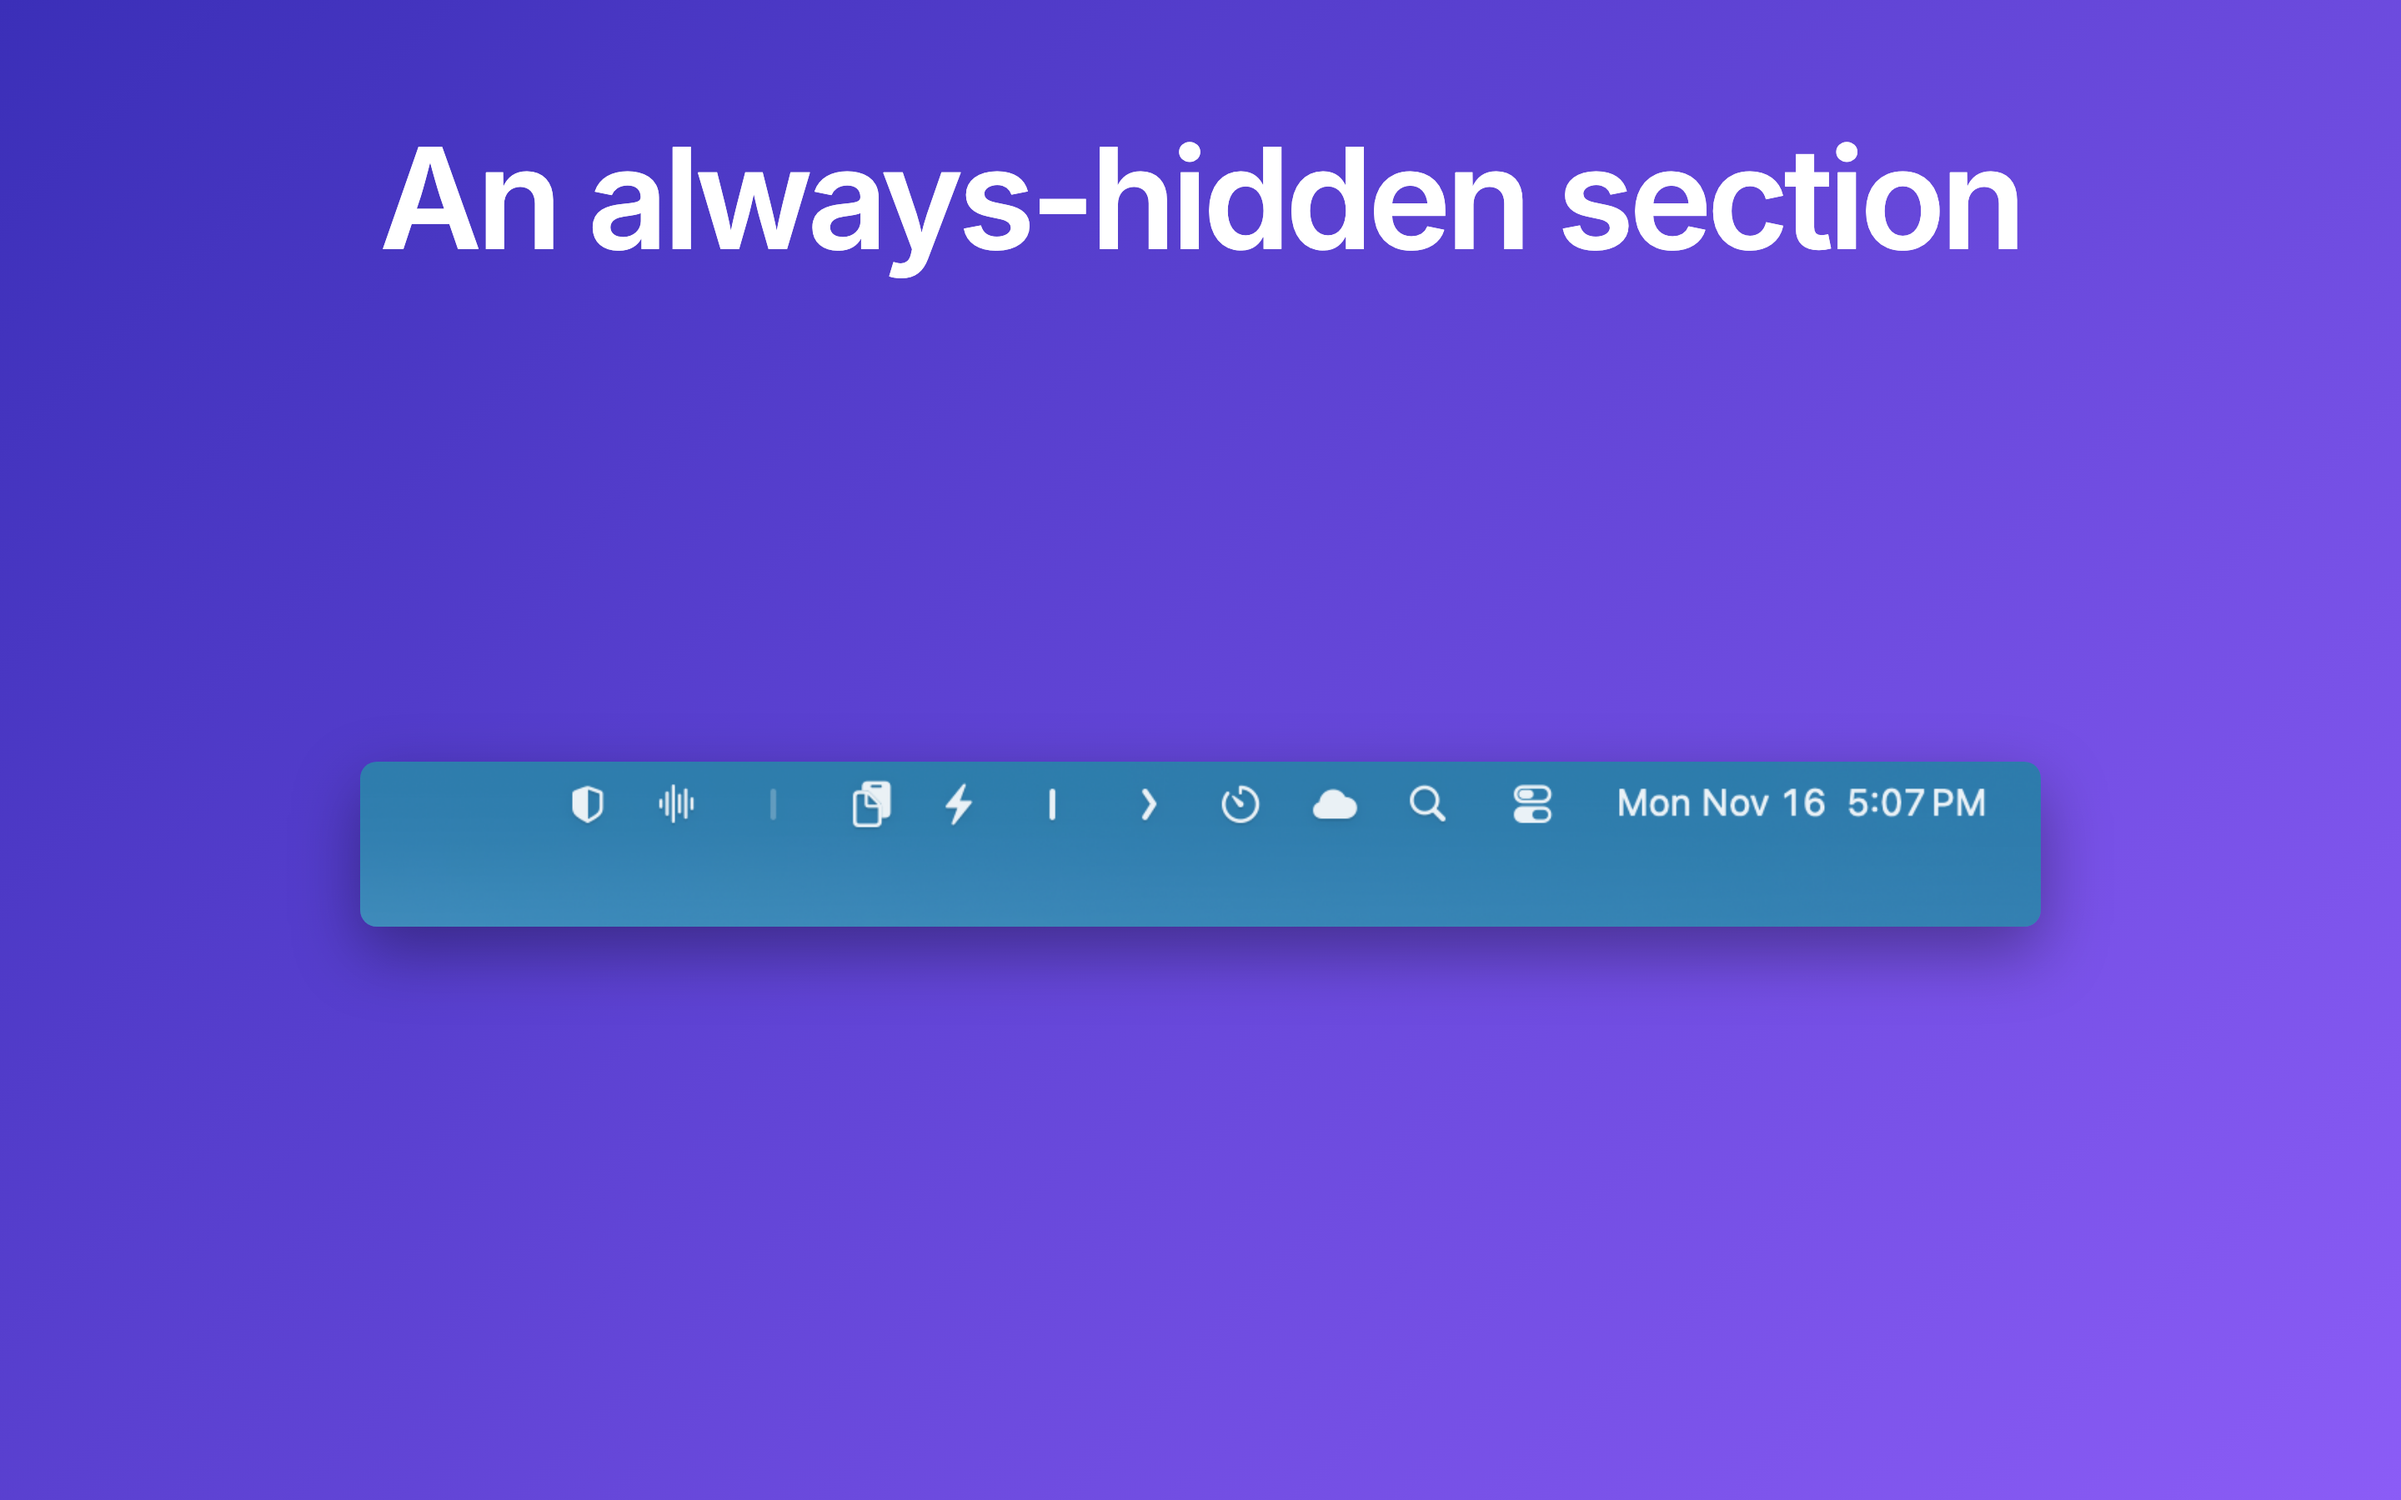
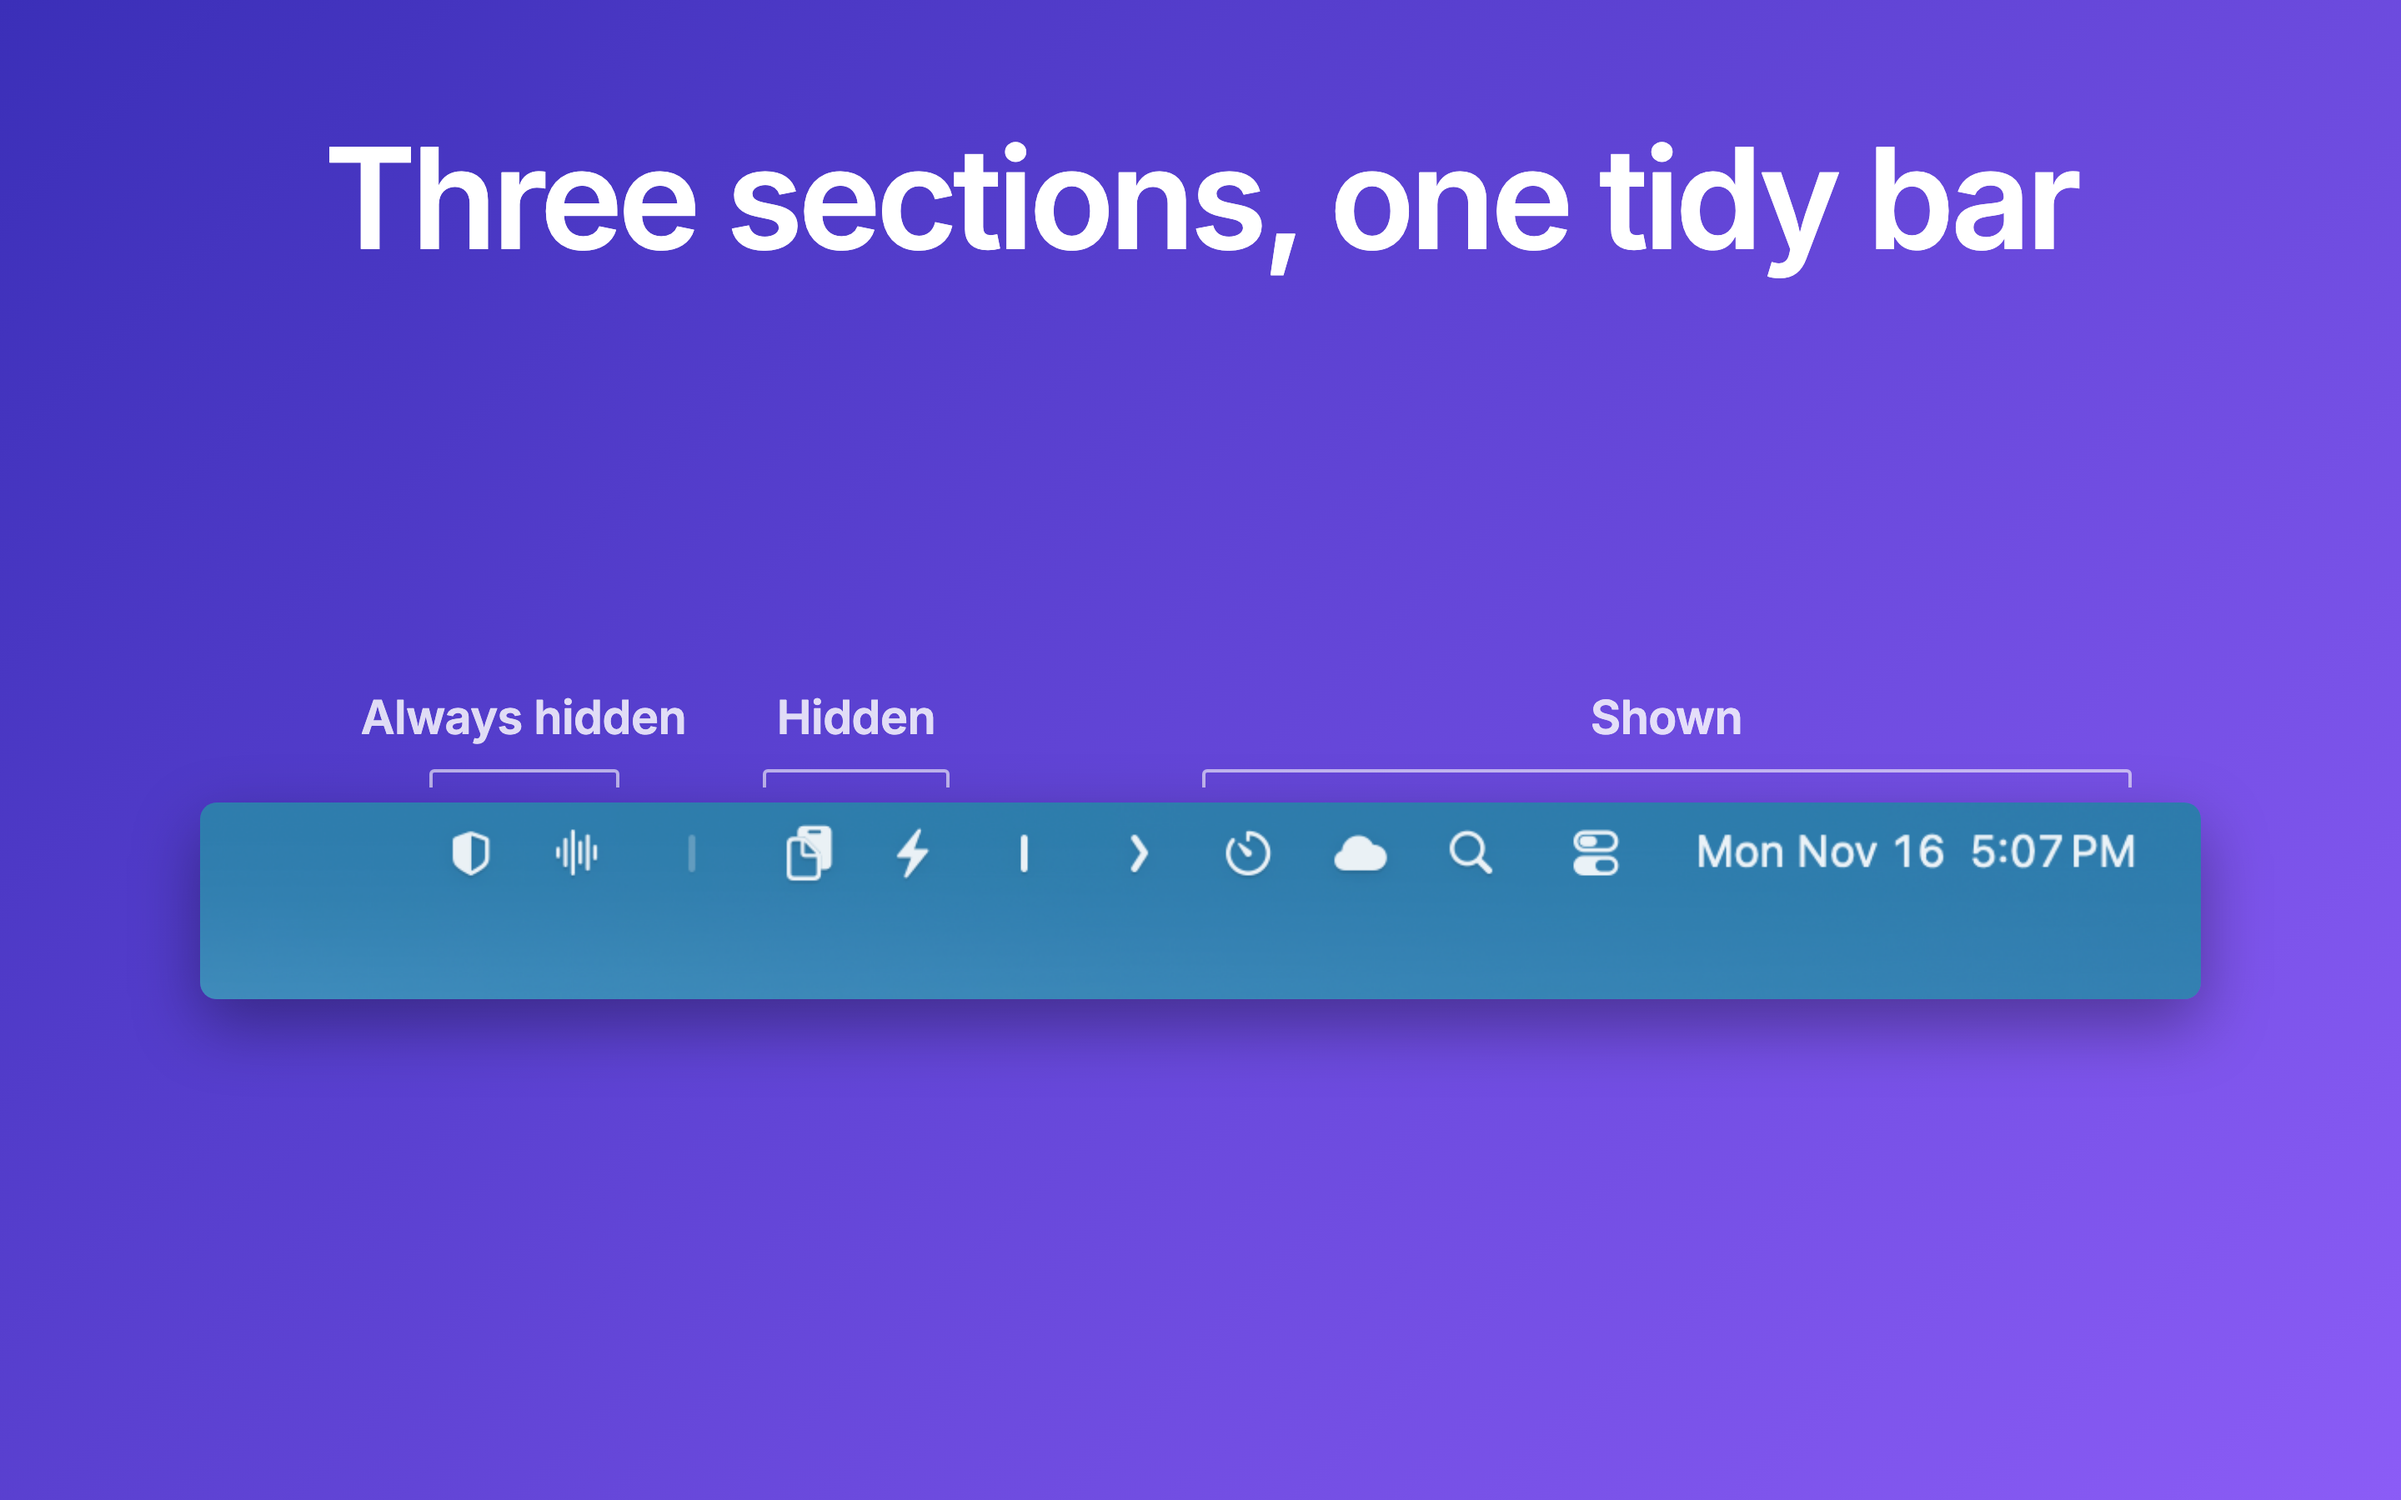
docs(appstore): zoom preview bars, relabel and enlarge stills
Bar beats use per-beat tight crops (about 8 s in total). Each settings tab is cropped to its own window and sits on the purple backdrop with the shared shadow. Screenshot 2 labels the Always hidden, Hidden and Shown sections; screenshot 3 shows the top of General at 1.5x.

Changed region(s): [[0.0625, 0.4667, 0.9375, 0.7156], [0.125, 0.0933, 0.875, 0.1867]]

diff --git a/docs/appstore/video/index.html b/docs/appstore/video/index.html
@@ -41,10 +41,19 @@
         background: #1d4f73;
       }
       .card video { position: absolute; left: 0; top: 0; display: block; }
-      #cardA { left: 160px; top: 250px; width: 1600px; height: 340px; }
-      #cardB { left: 213px; top: 60px; width: 1494px; height: 840px; }
-      #cardA video { width: 1600px; height: 340px; }
-      #cardB video { width: 1494px; height: 840px; }
+      #cardA { left: 144px; top: 315px; width: 1632px; height: 330px; }
+      #cardA video { width: 1632px; height: 330px; }
+      /* Settings windows: the shared shadow sits on a wrapper, the card carries the window's corner shape
+         (macOS radius about 50 source px). General shows the top of the window and fades out at the cut. */
+      .win { position: absolute; filter: drop-shadow(0 30px 80px rgba(0, 0, 0, 0.35)); }
+      .wcard { position: relative; width: 100%; height: 100%; overflow: hidden; }
+      .win video { position: absolute; left: 0; top: 0; display: block; width: 100%; height: 100%; }
+      #winB1 { left: 240px; top: 56px; width: 1440px; height: 834px; }
+      #winB1 .wcard { border-radius: 56px; -webkit-mask-image: linear-gradient(to bottom, #000 0, #000 82%, transparent 100%); mask-image: linear-gradient(to bottom, #000 0, #000 82%, transparent 100%); }
+      #winB2 { left: 160px; top: 197px; width: 1600px; height: 626px; }
+      #winB2 .wcard { border-radius: 62px; }
+      #winB3 { left: 160px; top: 248px; width: 1600px; height: 524px; }
+      #winB3 .wcard { border-radius: 62px; }
 
       .capwrap { position: absolute; left: 0; width: 1920px; bottom: 74px; display: flex; justify-content: center; }
       .cap {
@@ -62,7 +71,7 @@
     </style>
   </head>
   <body>
-    <div id="root" data-composition-id="main" data-start="0" data-duration="24.3" data-width="1920" data-height="1080">
+    <div id="root" data-composition-id="main" data-start="0" data-duration="17.85" data-width="1920" data-height="1080">
 
       <div id="title" class="clip fill" data-start="0" data-duration="2.0" data-track-index="0">
         <div id="titleIn" class="fill center">
@@ -74,23 +83,26 @@
 
       <div id="beatA" class="fill">
         <div id="cardA" class="card">
-          <video id="vidA" class="clip" data-start="2.0" data-duration="14.0" data-track-index="2" src="assets/clipA.mp4" muted playsinline></video>
+          <video id="vidA1" class="clip" data-start="2.0" data-duration="1.8" data-track-index="2" src="assets/clipA1.mp4" muted playsinline></video>
+          <video id="vidA2" class="clip" data-start="3.8" data-duration="2.25" data-track-index="2" src="assets/clipA2.mp4" muted playsinline></video>
+          <video id="vidA3" class="clip" data-start="6.05" data-duration="2.3" data-track-index="2" src="assets/clipA3.mp4" muted playsinline></video>
+          <video id="vidA4" class="clip" data-start="8.35" data-duration="1.7" data-track-index="2" src="assets/clipA4.mp4" muted playsinline></video>
         </div>
       </div>
 
       <div id="beatB" class="fill">
-        <div id="cardB" class="card">
-          <video id="vidB" class="clip" data-start="16.0" data-duration="6.1" data-track-index="2" src="assets/clipB.mp4" muted playsinline></video>
-        </div>
+        <div id="winB1" class="win"><div class="wcard"><video id="vidB1" class="clip" data-start="10.05" data-duration="1.5" data-track-index="2" src="assets/clipB1.mp4" muted playsinline></video></div></div>
+        <div id="winB2" class="win"><div class="wcard"><video id="vidB2" class="clip" data-start="11.55" data-duration="2.4" data-track-index="2" src="assets/clipB2.mp4" muted playsinline></video></div></div>
+        <div id="winB3" class="win"><div class="wcard"><video id="vidB3" class="clip" data-start="13.95" data-duration="1.7" data-track-index="2" src="assets/clipB3.mp4" muted playsinline></video></div></div>
       </div>
 
-      <div id="cap1" class="clip capwrap" data-start="2.2" data-duration="2.4" data-track-index="3"><div class="cap" id="cap1In">Icons tuck behind one arrow</div></div>
-      <div id="cap2" class="clip capwrap" data-start="4.8" data-duration="4.7" data-track-index="3"><div class="cap" id="cap2In">Click the arrow to show them</div></div>
-      <div id="cap3" class="clip capwrap" data-start="9.7" data-duration="3.6" data-track-index="3"><div class="cap" id="cap3In">An always-hidden section</div></div>
-      <div id="cap4" class="clip capwrap" data-start="13.5" data-duration="2.4" data-track-index="3"><div class="cap" id="cap4In">Click again to tuck them away</div></div>
-      <div id="cap5" class="clip capwrap" data-start="16.2" data-duration="5.8" data-track-index="3"><div class="cap" id="cap5In">Make it yours in Settings</div></div>
+      <div id="cap1" class="clip capwrap" data-start="2.1" data-duration="1.6" data-track-index="3"><div class="cap" id="cap1In">Icons tuck behind one arrow</div></div>
+      <div id="cap2" class="clip capwrap" data-start="3.9" data-duration="2.05" data-track-index="3"><div class="cap" id="cap2In">Click the arrow to show them</div></div>
+      <div id="cap3" class="clip capwrap" data-start="6.15" data-duration="2.1" data-track-index="3"><div class="cap" id="cap3In">An always-hidden section</div></div>
+      <div id="cap4" class="clip capwrap" data-start="8.45" data-duration="1.5" data-track-index="3"><div class="cap" id="cap4In">Click again to tuck them away</div></div>
+      <div id="cap5" class="clip capwrap" data-start="10.15" data-duration="5.4" data-track-index="3"><div class="cap" id="cap5In">Make it yours in Settings</div></div>
 
-      <div id="end" class="clip fill" data-start="22.1" data-duration="2.2" data-track-index="0">
+      <div id="end" class="clip fill" data-start="15.65" data-duration="2.2" data-track-index="0">
         <div id="endIn" class="fill center">
           <img class="icon-sm" src="assets/icon.png" alt="" />
           <div class="endname">Free on the Mac App Store</div>
@@ -107,20 +119,22 @@
       tl.to("#titleIn", { opacity: 0, duration: 0.25, ease: "power2.in" }, 1.75);
 
       // footage cards
-      tl.fromTo("#cardA", { opacity: 0, y: 24 }, { opacity: 1, y: 0, duration: 0.4, ease: "power3.out" }, 2.0);
-      tl.to("#cardA", { opacity: 0, duration: 0.25, ease: "power2.in" }, 15.75);
-      tl.fromTo("#cardB", { opacity: 0, y: 24 }, { opacity: 1, y: 0, duration: 0.4, ease: "power3.out" }, 16.0);
-      tl.to("#cardB", { opacity: 0, duration: 0.25, ease: "power2.in" }, 21.85);
+      tl.fromTo("#cardA", { opacity: 0, y: 24 }, { opacity: 1, y: 0, duration: 0.35, ease: "power3.out" }, 2.0);
+      tl.to("#cardA", { opacity: 0, duration: 0.2, ease: "power2.in" }, 9.85);
+      [["winB1", 10.05, 1.5], ["winB2", 11.55, 2.4], ["winB3", 13.95, 1.7]].forEach(([id, t, d]) => {
+        tl.fromTo("#" + id, { opacity: 0, y: 24 }, { opacity: 1, y: 0, duration: 0.3, ease: "power3.out" }, t);
+        tl.to("#" + id, { opacity: 0, duration: 0.15, ease: "power2.in" }, t + d - 0.15);
+      });
 
       // captions
-      const caps = [["cap1In", 2.2, 2.4], ["cap2In", 4.8, 4.7], ["cap3In", 9.7, 3.6], ["cap4In", 13.5, 2.4], ["cap5In", 16.2, 5.8]];
+      const caps = [["cap1In", 2.1, 1.6], ["cap2In", 3.9, 2.05], ["cap3In", 6.15, 2.1], ["cap4In", 8.45, 1.5], ["cap5In", 10.15, 5.4]];
       caps.forEach(([id, t, d]) => {
         tl.fromTo("#" + id, { opacity: 0, y: 14 }, { opacity: 1, y: 0, duration: 0.3, ease: "power3.out" }, t);
         tl.to("#" + id, { opacity: 0, duration: 0.2, ease: "power2.in" }, t + d - 0.2);
       });
 
       // end card
-      tl.fromTo("#endIn", { opacity: 0, y: 18 }, { opacity: 1, y: 0, duration: 0.4, ease: "power3.out" }, 22.1);
+      tl.fromTo("#endIn", { opacity: 0, y: 18 }, { opacity: 1, y: 0, duration: 0.4, ease: "power3.out" }, 15.65);
 
       window.__timelines["main"] = tl;
       tl.seek(0);

diff --git a/docs/appstore/stills/shot2.html b/docs/appstore/stills/shot2.html
@@ -4,12 +4,28 @@
 <meta charset="utf-8">
 <title>Hidden Bar screenshot 2</title>
 <link rel="stylesheet" href="stills.css">
+<style>
+  /* strip-always.png is 1180 px wide, shown at 2400 px (x2.034). Section x ranges, in source px:
+     always hidden 149-233, hidden 346-428, shown 605-1139 (icons found by scanning the capture). */
+  .sections { position: relative; width: 2400px; height: 372px; }
+  .sections .strip { position: absolute; left: 0; bottom: 0; width: 2400px; }
+  .sections .label { position: absolute; top: 0; margin: 0; align-self: auto; transform: translateX(-50%); white-space: nowrap; }
+  .sections .bracket { position: absolute; top: 96px; height: 22px; border: 4px solid rgba(255, 255, 255, 0.6); border-bottom: none; border-radius: 6px 6px 0 0; }
+</style>
 </head>
 <body>
 <div class="stage">
-  <h1>An always-hidden section</h1>
+  <h1>Three sections, one tidy bar</h1>
   <div class="media">
-    <img class="strip" src="captures/strip-always.png" alt="Menu bar with the always-hidden section shown">
+    <div class="sections">
+      <div class="label" style="left: 388px;">Always hidden</div>
+      <div class="bracket" style="left: 275px; width: 228px;"></div>
+      <div class="label" style="left: 787px;">Hidden</div>
+      <div class="bracket" style="left: 675px; width: 224px;"></div>
+      <div class="label" style="left: 1759px;">Shown</div>
+      <div class="bracket" style="left: 1202px; width: 1115px;"></div>
+      <img class="strip" src="captures/strip-always.png" alt="Menu bar with the always-hidden section, the hidden icons and the shown icons">
+    </div>
   </div>
 </div>
 </body>

diff --git a/docs/appstore/stills/shot3.html b/docs/appstore/stills/shot3.html
@@ -4,13 +4,19 @@
 <meta charset="utf-8">
 <title>Hidden Bar screenshot 3</title>
 <link rel="stylesheet" href="stills.css">
-<style>.win { width: 1330px; }</style>
+<style>
+  /* Top of the General window (status card, "Your menu bar" preview, first toggles), cut after the
+     Keyboard shortcut row and shown at x1.5 so body text is about 39 px on the 2880 canvas. */
+  .shadow { filter: drop-shadow(0 30px 80px rgba(0, 0, 0, 0.35)); }
+  .cropwin { width: 1920px; height: 1308px; overflow: hidden; border-radius: 75px 75px 44px 44px; }
+  .cropwin img { display: block; width: 1920px; }
+</style>
 </head>
 <body>
 <div class="stage">
   <h1>Settings that stay simple</h1>
   <div class="media" style="padding-bottom: 40px;">
-    <img class="win" src="captures/window-general.png" alt="Hidden Bar General settings">
+    <div class="shadow"><div class="cropwin"><img src="captures/window-general.png" alt="Top of the Hidden Bar General settings"></div></div>
   </div>
 </div>
 </body>
